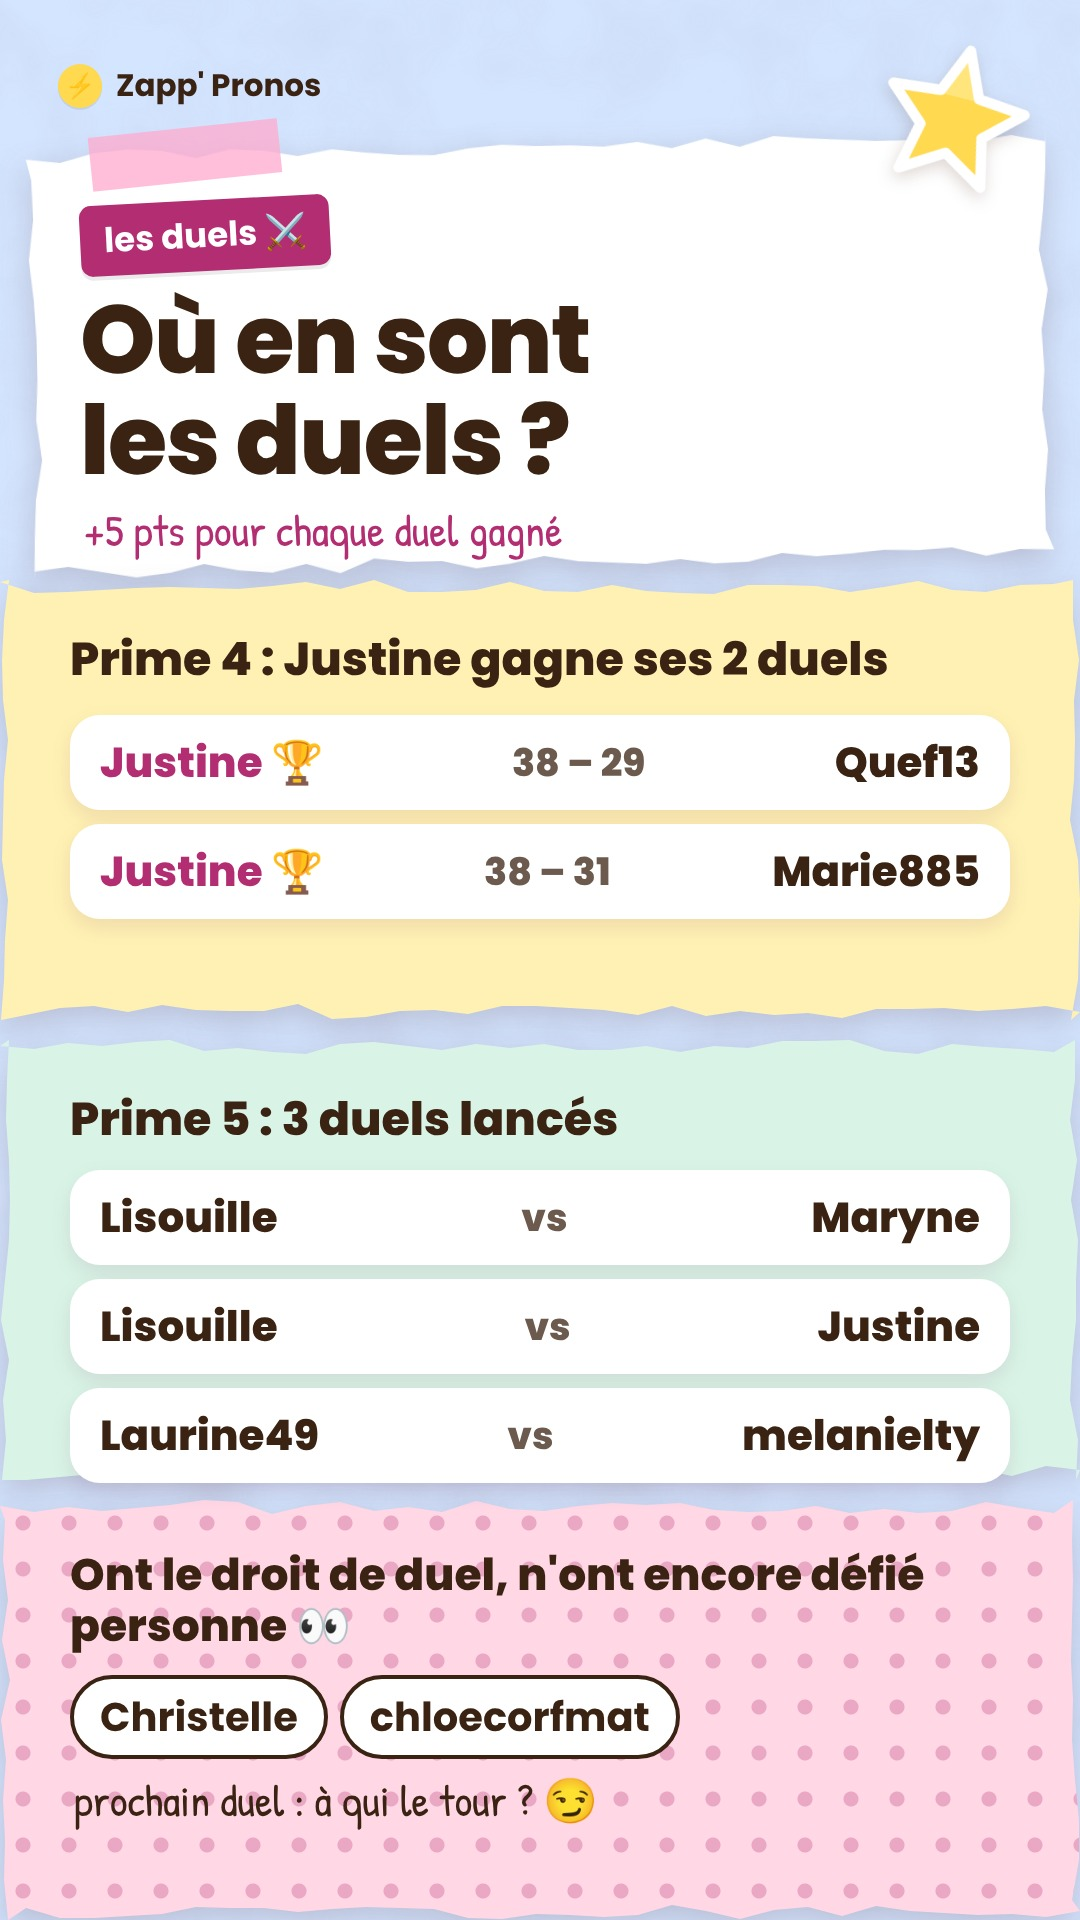
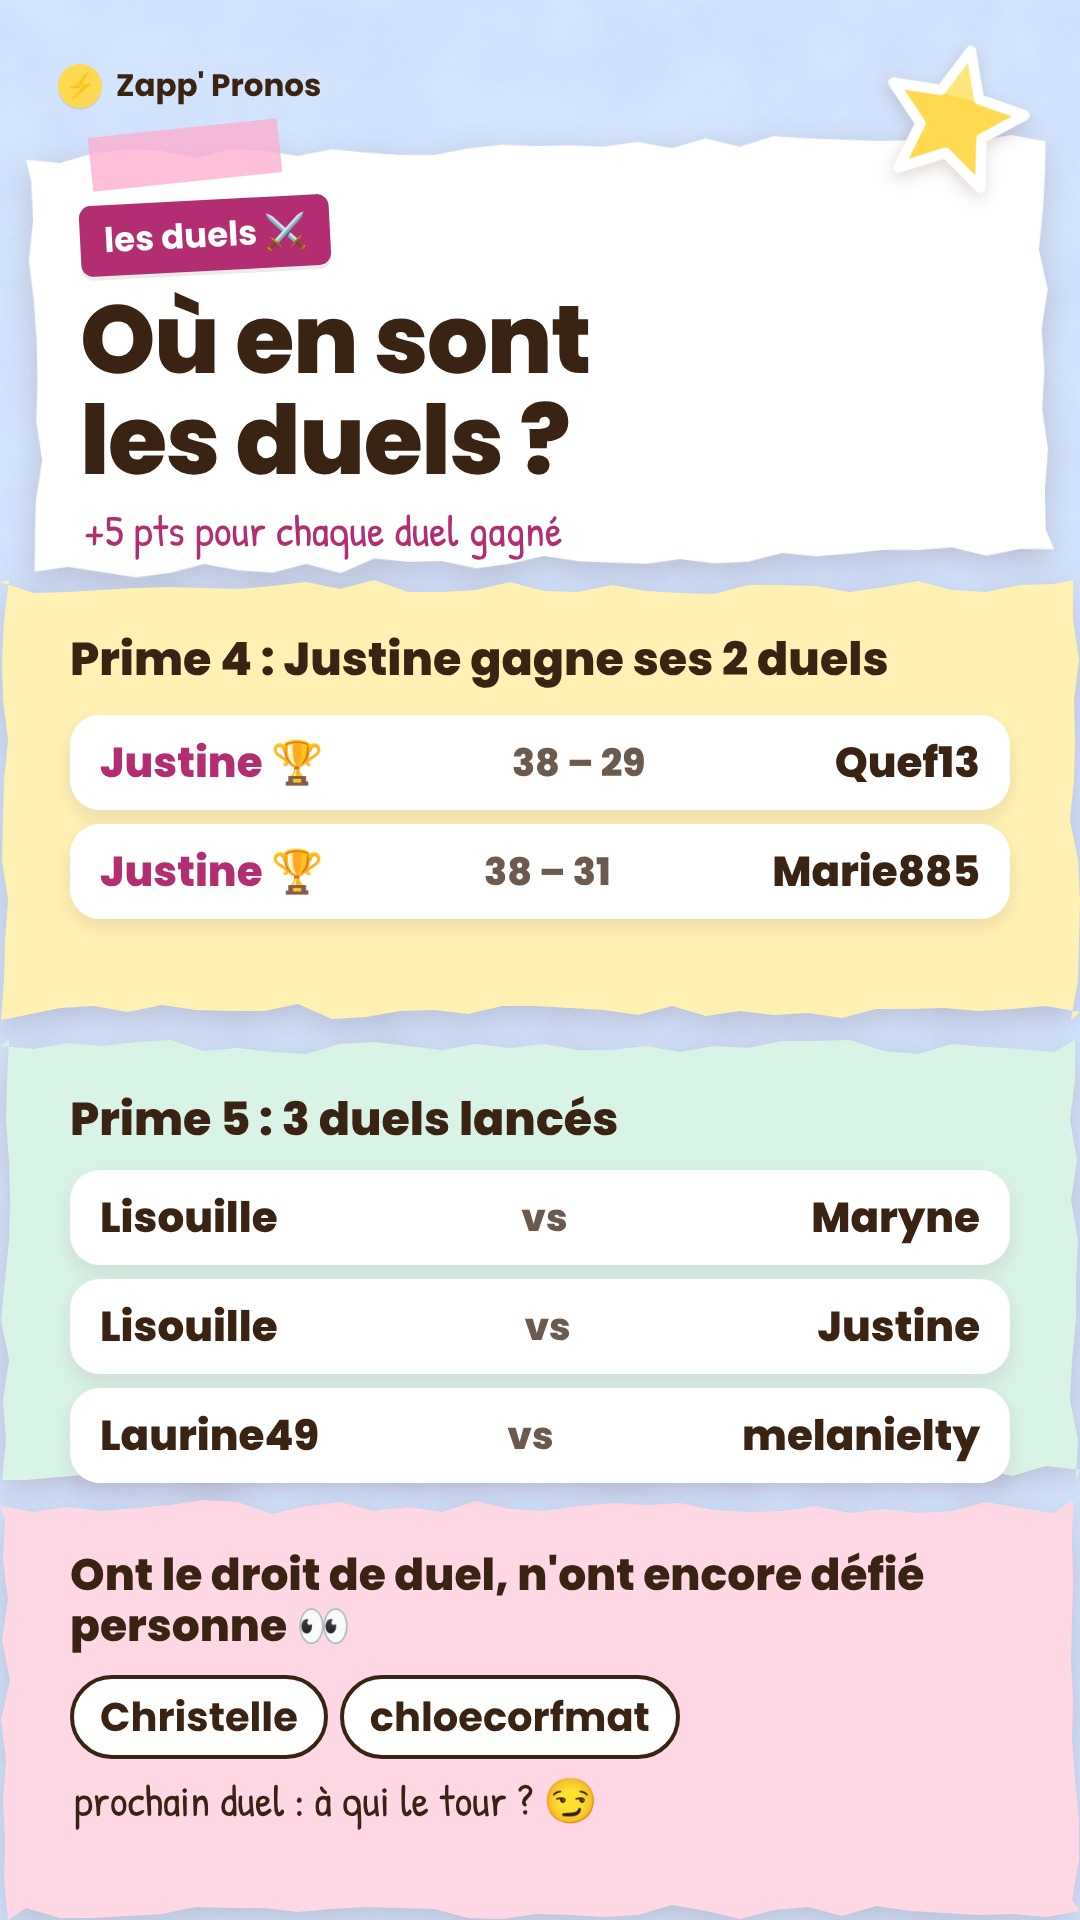
Stories duels et classement sans motif à pois (retour Tanguy)
Claude-Session: https://claude.ai/code/session_0156Lzyyocaj5mSMqKv9kGpd

diff --git a/templates/story-classement.html b/templates/story-classement.html
@@ -51,7 +51,7 @@ const AR=d=>d>0?`<span style="color:#2E9E6B">▲ ${d}</span>`:d<0?`<span style="
 const ROWC=(x)=>`<div style="display:flex;align-items:center;gap:22px;background:#fff;border-radius:30px;padding:16px 30px;margin-bottom:14px;box-shadow:0 8px 20px rgba(120,60,90,.12)"><div style="width:66px;height:66px;border-radius:50%;display:grid;place-items:center;font-weight:800;font-size:34px;background:#FFF1B4;flex:none">${x[0]}</div><div style="font-weight:800;font-size:42px">${x[1]}</div><div style="margin-left:auto;font-weight:800;font-size:40px;color:var(--mag)">${x[2]} pts</div><div style="width:110px;text-align:right;font-weight:800;font-size:34px">${AR(x[3])}</div></div>`;
 mk('classement','','#EFE6FF',
  TORN(30,140,1020,430,'#fff',-1.2,11,'')+TORN(0,600,1080,660,'#FFF1B4',0,23,'')+
- `<div class="tw" style="left:0;top:1290px;width:1080px;height:630px"><div class="dots" style="clip-path:${tornPoly(1080,630,5)};background-color:#FFD7E5"></div></div>`+
+ `<div class="tw" style="left:0;top:1290px;width:1080px;height:630px"><div style="clip-path:${tornPoly(1080,630,5)};background-color:#FFD7E5;width:100%;height:100%"></div></div>`+
  LOGO.replace('class="logo"','class="logo" style="top:62px"')+STAR(880,40,150,14)+
  `<div class="tape pk" style="left:90px;top:128px;transform:rotate(-6deg)"></div>
  <div style="position:absolute;left:80px;top:200px"><span class="tag">${D.etape}</span></div>

diff --git a/templates/story-duels.html b/templates/story-duels.html
@@ -47,7 +47,7 @@ const PILL=t=>`<span style="display:inline-block;background:#fff;border:4px soli
 const VS=(a,sa,b,sb,win)=>`<div style="display:flex;align-items:center;background:#fff;border-radius:30px;padding:16px 30px;margin-bottom:14px;box-shadow:0 8px 20px rgba(120,60,90,.12);font-weight:800;font-size:42px"><span style="${win==='a'?'color:var(--mag)':''}">${a}${win==='a'?' 🏆':''}</span><span style="margin:0 auto;font-size:38px;opacity:.75">${sa!==''?sa+' – '+sb:'vs'}</span><span style="${win==='b'?'color:var(--mag)':''}">${b}</span></div>`;
 mk('duels','','#D4E5FF',
  TORN(30,140,1020,430,'#fff',-1.2,11,'')+TORN(0,580,1080,440,'#FFF1B4',0,23,'')+TORN(0,1040,1080,440,'#D9F4E7',0,31,'')+
- `<div class="tw" style="left:0;top:1500px;width:1080px;height:420px"><div class="dots" style="clip-path:${tornPoly(1080,420,5)};background-color:#FFD7E5"></div></div>`+
+ `<div class="tw" style="left:0;top:1500px;width:1080px;height:420px"><div style="clip-path:${tornPoly(1080,420,5)};background-color:#FFD7E5;width:100%;height:100%"></div></div>`+
  LOGO.replace('class="logo"','class="logo" style="top:62px"')+STAR(880,40,150,14)+
  `<div class="tape pk" style="left:90px;top:128px;transform:rotate(-6deg)"></div>
  <div style="position:absolute;left:80px;top:200px"><span class="tag">les duels ⚔</span></div>

diff --git a/templates/LISEZMOI.md b/templates/LISEZMOI.md
@@ -16,3 +16,5 @@ Photos détourées (covers plus visuelles) :
 - `moi_selfie.png`, `moi_top.png`, `cut_defi.png` : photos de moi détourées. `ME('moi_top.png',x,y,largeur,rotation)`.
 - Règle : dès qu'un post parle d'un·e élève, sa photo détourée va sur la cover ; sinon une photo de moi. Plus des emojis pertinents en sticker (`EM`).
 - `covers-photos.html#nom5` est un modèle : remplacer le tableau `N` par le vrai top 3 (prénom du fichier, prénom affiché, %).
+
+- Jamais de motif à pois ni de fond à rayons (retours Tanguy du 2/11) : papiers déchirés unis pastel uniquement.
